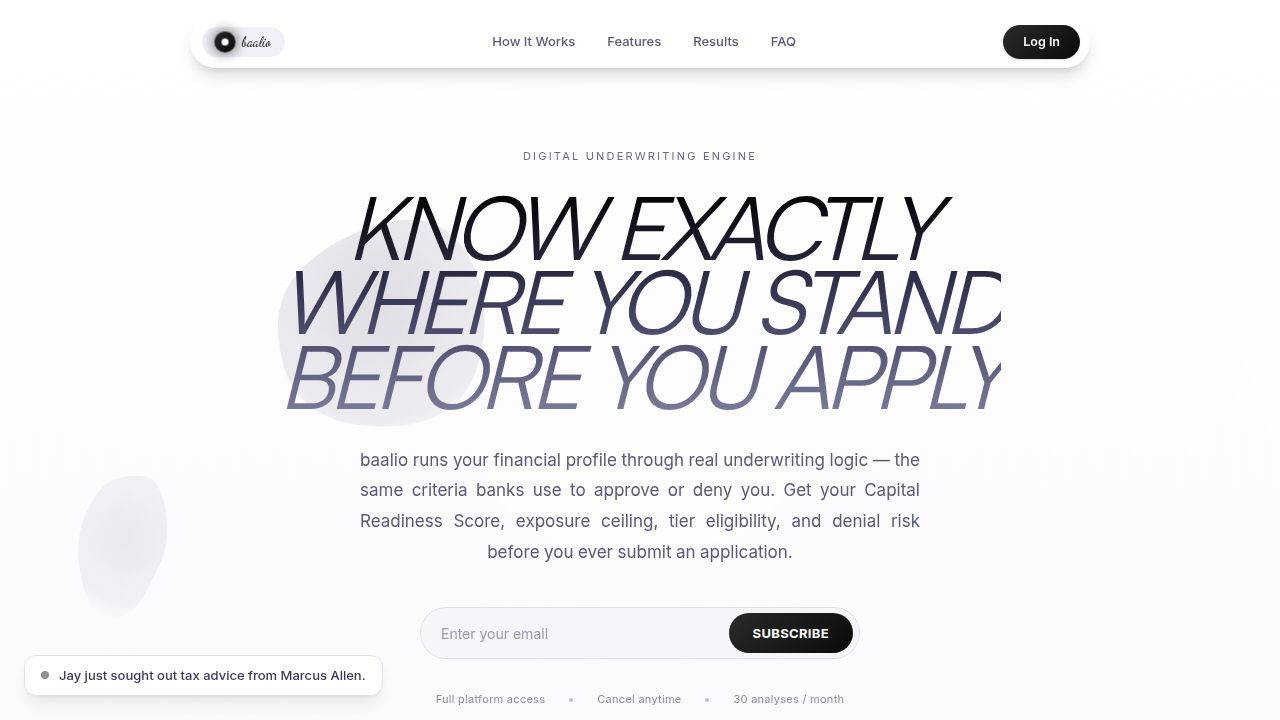
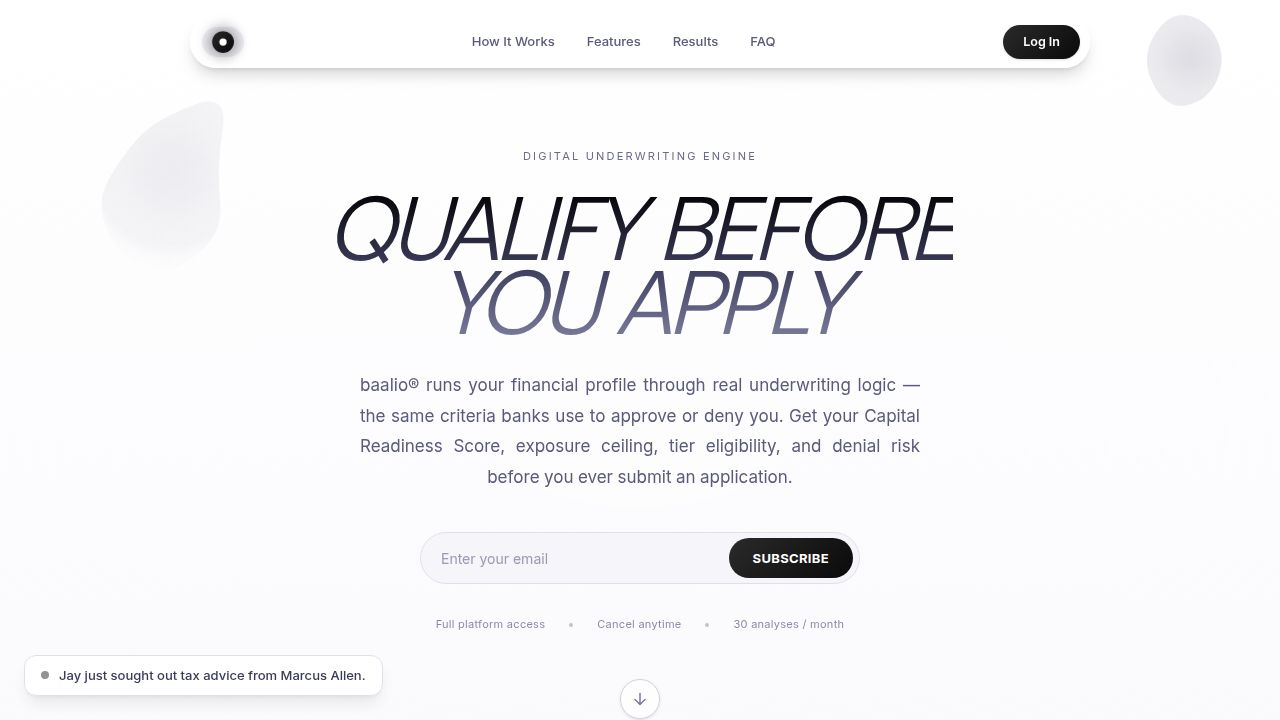
Update hero headline to encourage qualification before application
Changes the main hero headline text on the landing page from "Know Exactly Where You Stand Before You Apply" to "Qualify Before You Apply".

Replit-Commit-Author: Agent
Replit-Commit-Session-Id: 8c434e20-2fb5-4975-8b24-d870c136f72e
Replit-Commit-Checkpoint-Type: full_checkpoint
Replit-Commit-Event-Id: 641e4f95-2a35-4241-a9c3-f8fb4d866920
Replit-Commit-Screenshot-Url: https://storage.googleapis.com/screenshot-production-us-central1/6cb68abc-05c5-46e4-b0ad-0de8a6638ddd/8c434e20-2fb5-4975-8b24-d870c136f72e/swaFihA
Replit-Helium-Checkpoint-Created: true

diff --git a/client/src/pages/landing.tsx b/client/src/pages/landing.tsx
@@ -369,7 +369,7 @@ export default function LandingPage() {
             style={{ fontFamily: "'Satoshi', sans-serif", fontWeight: 400, letterSpacing: '-0.06em', backgroundImage: 'linear-gradient(180deg, #000000 0%, #3a3a5a 50%, #7a7a9a 100%)', WebkitBackgroundClip: 'text', WebkitTextFillColor: 'transparent', backgroundClip: 'text' }}
             data-testid="text-hero-headline"
           >
-            Know Exactly<br />Where You Stand<br />Before You Apply
+            Qualify Before<br />You Apply
           </h1>
           <p className="text-[13px] sm:text-[17px] text-[#5a5a7a] leading-[1.7] sm:leading-[1.8] max-w-[560px] mx-auto mb-10 text-justify-smart-center">
             baalio® runs your financial profile through real underwriting logic — the same criteria banks use to approve or deny you. Get your Capital Readiness Score, exposure ceiling, tier eligibility, and denial risk before you ever submit an application.
